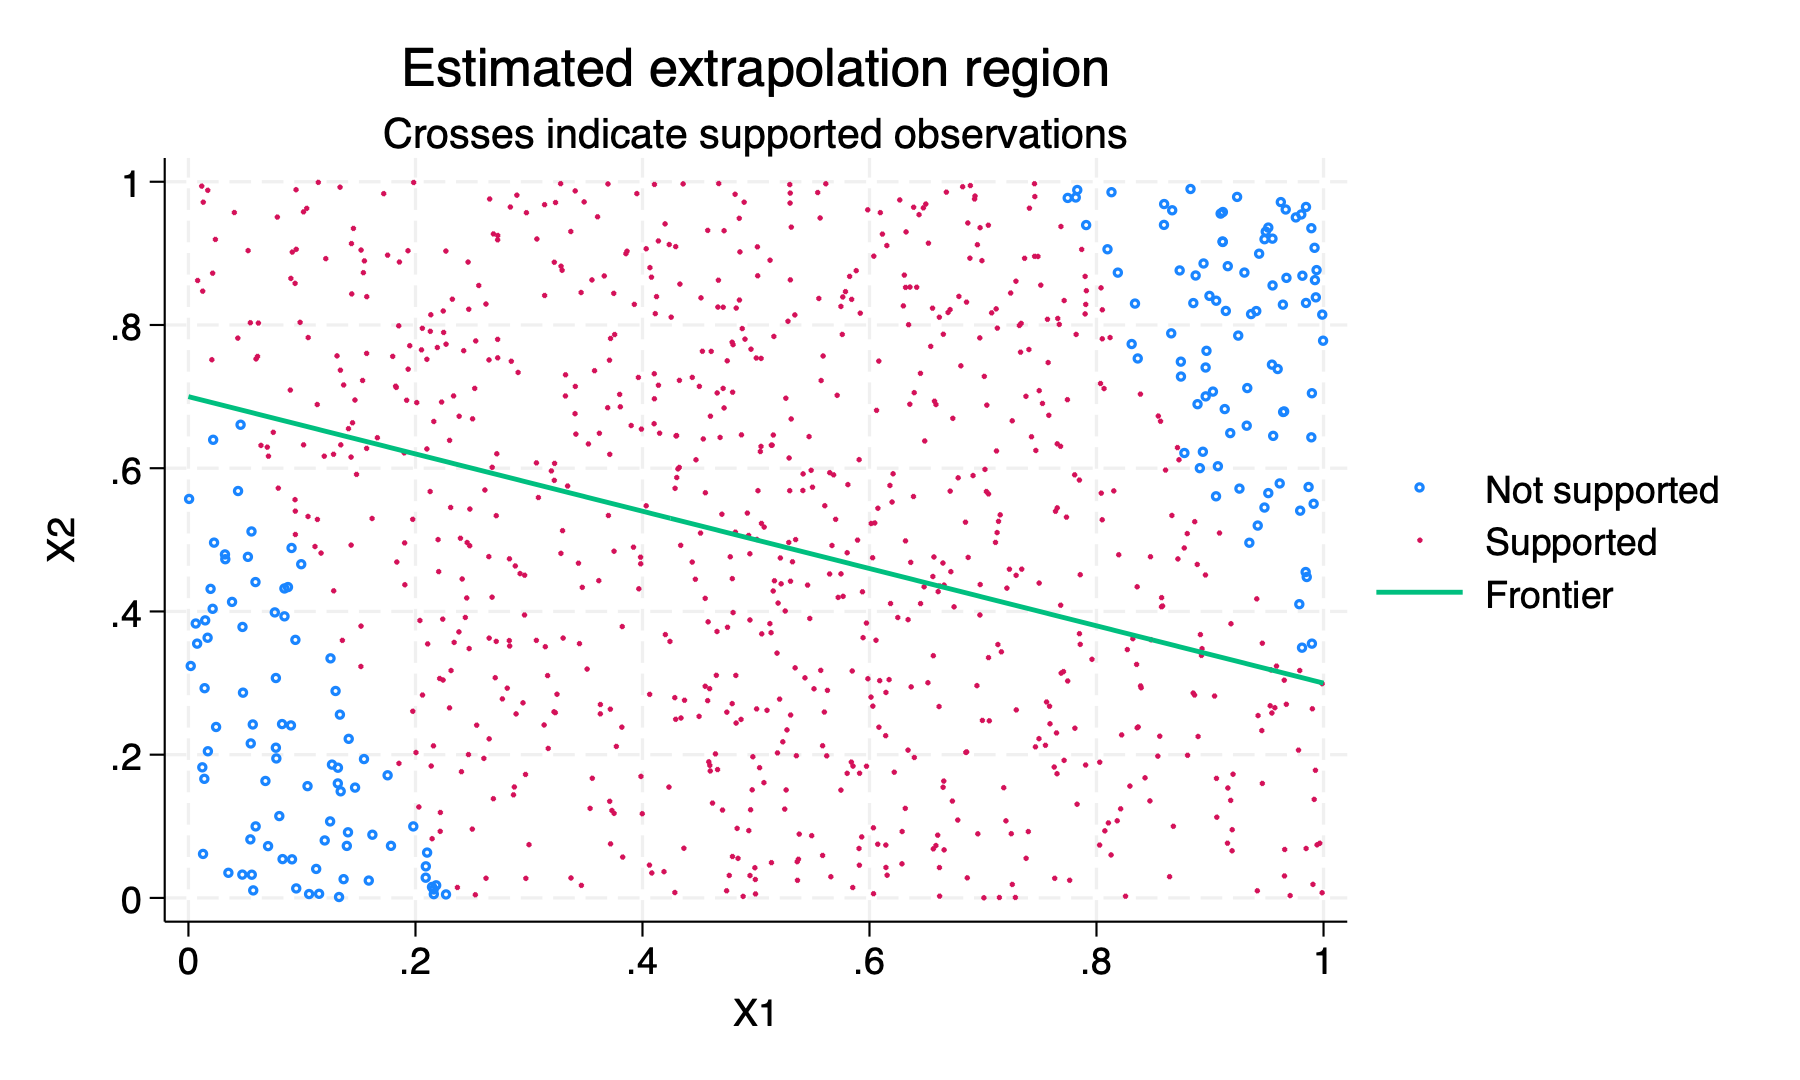
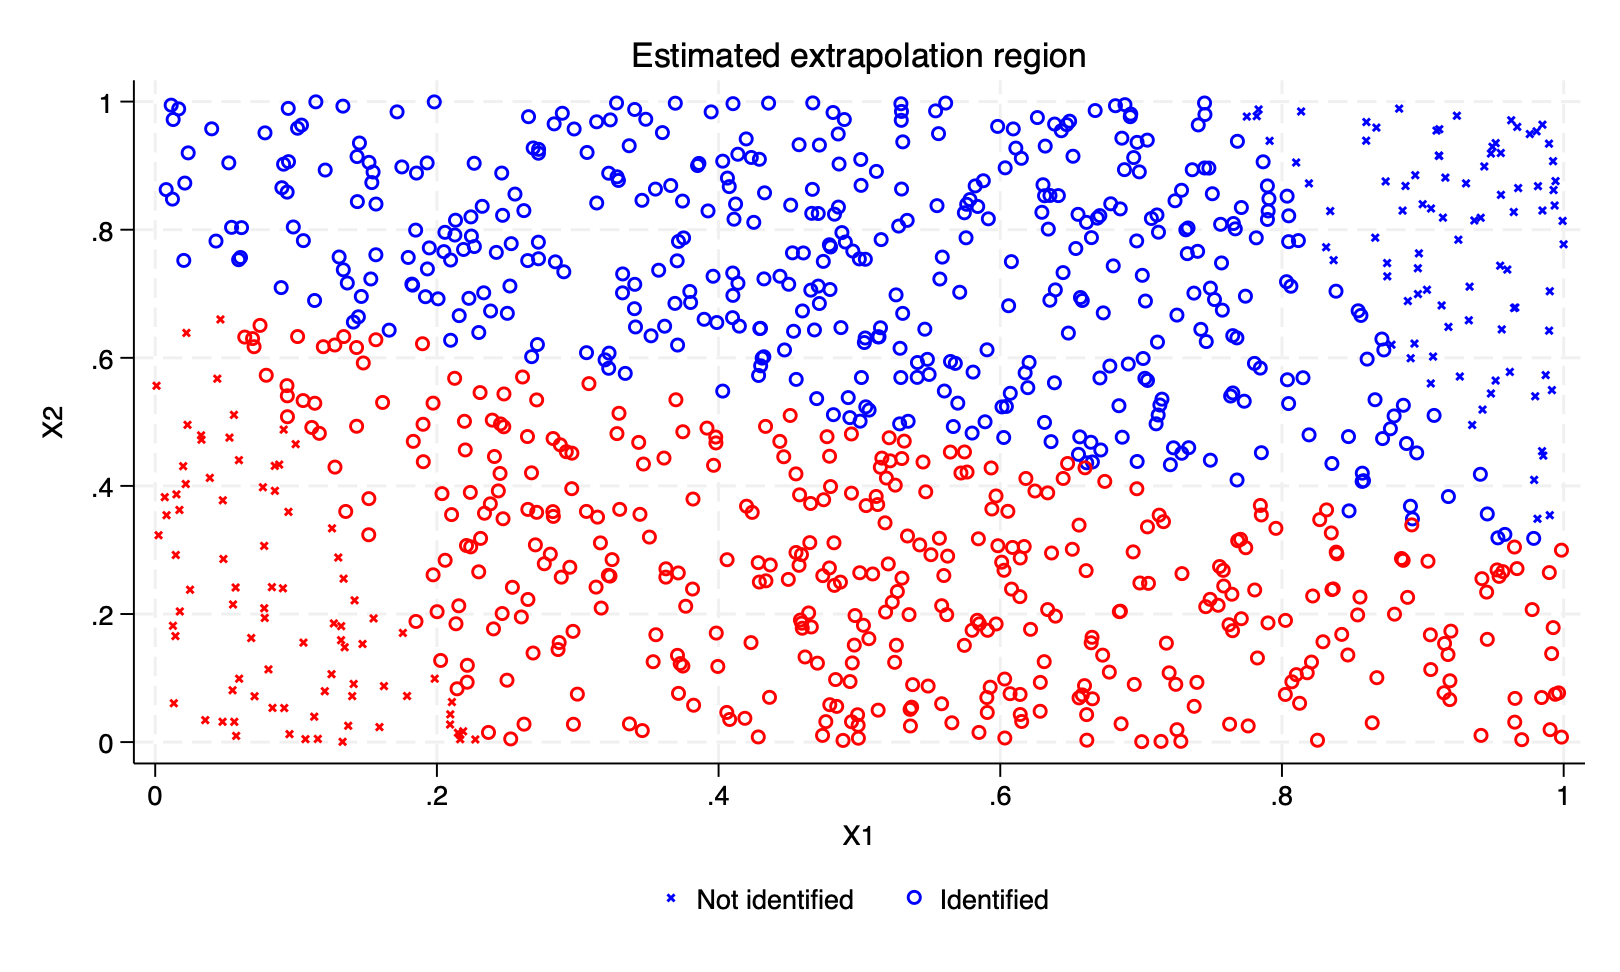
README fix

diff --git a/README.md b/README.md
@@ -166,11 +166,11 @@ rdcomono y x1 x2,                         ///
 
 The variables created by `generate()` are:
 
-| Variable    | Description                     |
-| :---------- | :------------------------------ |
-| `y0_hat`    | Estimated (E[Y(0)\mid X])       |
-| `y1_hat`    | Estimated (E[Y(1)\mid X])       |
-| `supported` | Estimated support indicator (S) |
+| Variable    | Description                       |
+| :---------- | :---------------------------------|
+| `y0_hat`    | Estimated $$E[Y(0)\mid X]$$       |
+| `y1_hat`    | Estimated $$E[Y(1)\mid X]$$       |
+| `supported` | Estimated support indicator $$S$$ |
 
 The support indicator `supported` equals one when the observation's factual conditional mean lies within the estimated domain of the relevant counterfactual mapping.
 
@@ -267,7 +267,7 @@ A counterfactual policy is fully identified when the treatment changes induced b
 Consider a counterfactual policy that shifts the treatment frontier upward by 0.05:
 
 $$
-D^{\mathrm{counterfactual}} = \mathbf{1} \left{ X_2 < 0.7 - 0.4X_1 + 0.05 \right}.
+D^{\mathrm{counterfactual}} = \mathbf{1} \{ X_2 < 0.7 - 0.4X_1 + 0.05 \}.
 $$
 
 This policy expands treatment to observations immediately above the original treatment frontier.
